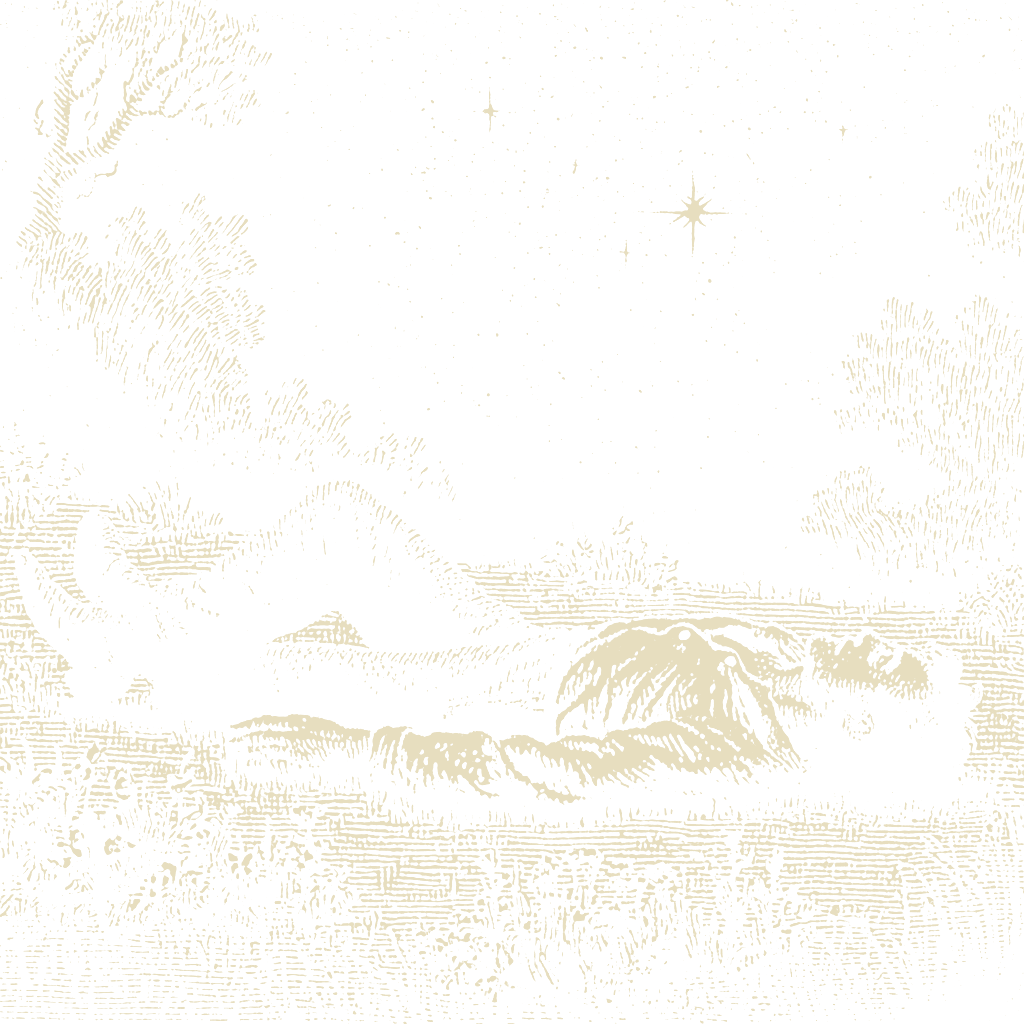
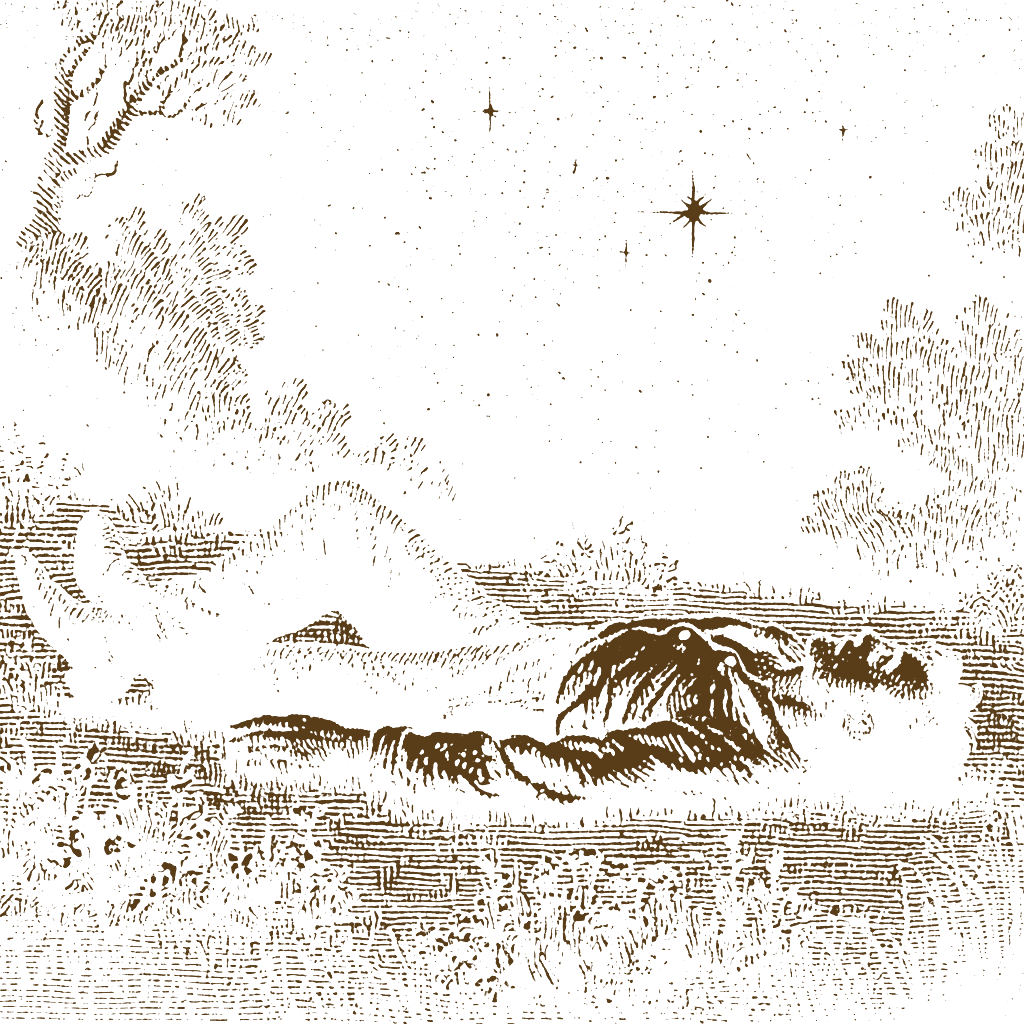
back to light mode

diff --git a/_sass/minima.scss b/_sass/minima.scss
@@ -9,10 +9,10 @@
 }
 
 // First, define all static SCSS color variables
-$base-text-color: #e7dec0 !default;
-$base-background-color: #050503 !default;
-$base-link-color: #e7dec0 !default;
-$base-grey-color: #a79d7f !default;
+$base-text-color: #1a1a1a !default;
+$base-background-color: #fdfaf3 !default;
+$base-link-color: #1a1a1a !default;
+$base-grey-color: #6b6450 !default;
 
 // Define other base variables
 $base-font-family: "EB Garamond", Georgia, "Times New Roman", Times, serif !default;
@@ -27,9 +27,9 @@ $table-text-align: left !default;
 
 // Define derived SCSS colors (these need to be before CSS variables)
 $grey-color:       $base-grey-color !default;
-$grey-color-light: #f1ead4 !default;
-$grey-color-dark:  #62593e !default;
-$brand-color:      #e7dec0 !default;
+$grey-color-light: rgba(0, 0, 0, 0.08) !default;
+$grey-color-dark:  #3a3a3a !default;
+$brand-color:      #1a1a1a !default;
 // $orange-color:     #f66a0a !default;
 
 // Layout variables
@@ -45,15 +45,15 @@ $on-large:         $on-laptop !default;
   --text-color: #{$base-text-color};
   --link-color: #{$base-link-color};
   --grey-color: #{$grey-color};
-  --grey-color-light: rgba(231, 222, 192, 0.22);
-  --grey-color-dark: #d5c9a9;
-  --letter-bg: rgba(5, 5, 3, 0.74);
-  --letter-shadow: rgba(0, 0, 0, 0.45);
-  --letter-border: rgba(231, 222, 192, 0.2);
-  --ink-muted: #a79d7f;
-  --ink-faint: rgba(231, 222, 192, 0.62);
-  --surface-dark: rgba(5, 5, 3, 0.68);
-  --surface-darker: rgba(0, 0, 0, 0.34);
+  --grey-color-light: rgba(0, 0, 0, 0.08);
+  --grey-color-dark: #3a3a3a;
+  --letter-bg: rgba(253, 250, 243, 0.92);
+  --letter-shadow: rgba(0, 0, 0, 0.08);
+  --letter-border: rgba(0, 0, 0, 0.12);
+  --ink-muted: #6b6450;
+  --ink-faint: rgba(26, 26, 26, 0.6);
+  --surface-dark: transparent;
+  --surface-darker: transparent;
   
   // Layout and spacing CSS variables
   --spacing-unit: #{$spacing-unit};
@@ -63,22 +63,22 @@ $on-large:         $on-laptop !default;
   --base-line-height: #{$base-line-height};
   
   // Syntax highlighting colors
-  --highlight-bg: rgba(5, 5, 3, 0.84);
-  --highlight-rouge-bg: rgba(231, 222, 192, 0.1);
-  --syntax-comment: #75715e;
-  --syntax-error: #f0b7a4;
-  --syntax-error-bg: rgba(240, 183, 164, 0.14);
-  --syntax-keyword: #f0d997;
-  --syntax-operator: #e7dec0;
-  --syntax-number: #d3b679;
-  --syntax-string: #f0d997;
-  --syntax-name-attr: #e0cfa7;
-  --syntax-name-builtin: #e7dec0;
-  --syntax-name-class: #f0d997;
-  --syntax-name-function: #f0d997;
-  --syntax-name-namespace: #a79d7f;
-  --syntax-name-tag: #f0d997;
-  --syntax-name-variable: #e7dec0;
+  --highlight-bg: rgba(0, 0, 0, 0.04);
+  --highlight-rouge-bg: rgba(0, 0, 0, 0.05);
+  --syntax-comment: #78716c;
+  --syntax-error: #b91c1c;
+  --syntax-error-bg: rgba(185, 28, 28, 0.08);
+  --syntax-keyword: #92400e;
+  --syntax-operator: #1a1a1a;
+  --syntax-number: #9a3412;
+  --syntax-string: #166534;
+  --syntax-name-attr: #6b21a8;
+  --syntax-name-builtin: #1a1a1a;
+  --syntax-name-class: #1d4ed8;
+  --syntax-name-function: #1d4ed8;
+  --syntax-name-namespace: #78716c;
+  --syntax-name-tag: #1d4ed8;
+  --syntax-name-variable: #1a1a1a;
 }
 
 // Map theme variables
@@ -107,10 +107,6 @@ $a-color: $base-link-color !default;
 // Theme styles using CSS variables
 html {
   background-color: var(--background-color);
-  background-image: url("/assets/img/home/bg-1.jpg");
-  background-position: top center;
-  background-repeat: repeat;
-  background-size: 200px auto;
 }
 
 body {

diff --git a/_sass/minima/_layout.scss b/_sass/minima/_layout.scss
@@ -7,7 +7,7 @@
   position: sticky;
   top: 0;
   z-index: 20;
-  background: rgba(5, 5, 3, 0.86);
+  background: rgba(253, 250, 243, 0.92);
   color: var(--text-color);
   backdrop-filter: blur(7px);
 }
@@ -241,30 +241,14 @@
 }
 
 .letter-paper {
-  background:
-    radial-gradient(circle at 18% 0%, rgba(231, 222, 192, 0.08), transparent 28rem),
-    linear-gradient(180deg, rgba(5, 5, 3, 0.82), rgba(5, 5, 3, 0.68));
   border: 1px solid var(--letter-border);
   border-radius: 4px;
-  box-shadow: 0 22px 90px var(--letter-shadow);
+  box-shadow: 0 12px 40px var(--letter-shadow);
   margin: 0 $spacing-unit;
   max-width: 760px;
-  padding: $spacing-unit * 1.7;
+  padding: $spacing-unit * 1.5;
   position: relative;
   width: 100%;
-
-  &::before {
-    content: "";
-    position: absolute;
-    inset: 0;
-    background-image:
-      linear-gradient(rgba(231, 222, 192, 0.05) 1px, transparent 1px),
-      radial-gradient(circle at 1px 1px, rgba(231, 222, 192, 0.1) 1px, transparent 0);
-    background-size: 100% 1.7rem, 22px 22px;
-    border-radius: inherit;
-    opacity: 0.24;
-    pointer-events: none;
-  }
 
   @media screen and (max-width: $on-palm) {
     margin: 0 calc(#{$spacing-unit} / 2);
@@ -319,7 +303,7 @@
     }
 
     blockquote {
-      background: rgba(231, 222, 192, 0.08);
+      background: rgba(0, 0, 0, 0.04);
       border-left: 4px solid var(--grey-color);
       color: var(--ink-faint);
       font-style: italic;
@@ -332,7 +316,7 @@
     }
 
     code {
-      background-color: rgba(231, 222, 192, 0.11);
+      background-color: rgba(0, 0, 0, 0.05);
       border-color: var(--letter-border);
       border-radius: 3px;
       color: var(--text-color);
@@ -341,7 +325,7 @@
     }
 
     pre {
-      background-color: rgba(0, 0, 0, 0.42);
+      background-color: rgba(0, 0, 0, 0.04);
       border: 1px solid var(--letter-border);
       border-radius: 5px;
       margin: calc(#{$spacing-unit} / 2) 0;
@@ -449,14 +433,6 @@
   padding: clamp(1rem, 3vw, 2.5rem);
   position: relative;
 
-  &::before {
-    content: "";
-    position: absolute;
-    inset: 0;
-    background: radial-gradient(circle at 50% 52%, rgba(231, 222, 192, 0.08), transparent 24rem);
-    pointer-events: none;
-    z-index: -1;
-  }
 }
 
 .home-portal__title {
@@ -468,7 +444,6 @@
   line-height: 0.78;
   margin: clamp(0.25rem, 0.8vw, 0.6rem) 0 0;
   text-align: center;
-  text-shadow: 0 0 32px rgba(231, 222, 192, 0.08);
 }
 
 .home-portal__nav {
@@ -486,7 +461,6 @@
     letter-spacing: 0.14em;
     text-decoration: none;
     text-transform: uppercase;
-    text-shadow: 0 0 18px rgba(231, 222, 192, 0.08);
 
     &:visited,
     &:hover {
@@ -503,7 +477,7 @@
 
 .home-portal__figure {
   filter: contrast(1.05) sepia(0.08);
-  mix-blend-mode: screen;
+  mix-blend-mode: multiply;
   max-width: none;
   opacity: 0.96;
   pointer-events: none;

diff --git a/_sass/minima/_base.scss b/_sass/minima/_base.scss
@@ -124,7 +124,7 @@ code {
   @include relative-font-size(0.9375);
   border: 1px solid var(--letter-border);
   border-radius: 3px;
-  background-color: rgba(0, 0, 0, 0.38);
+  background-color: rgba(0, 0, 0, 0.04);
   color: var(--text-color);
 }
 
